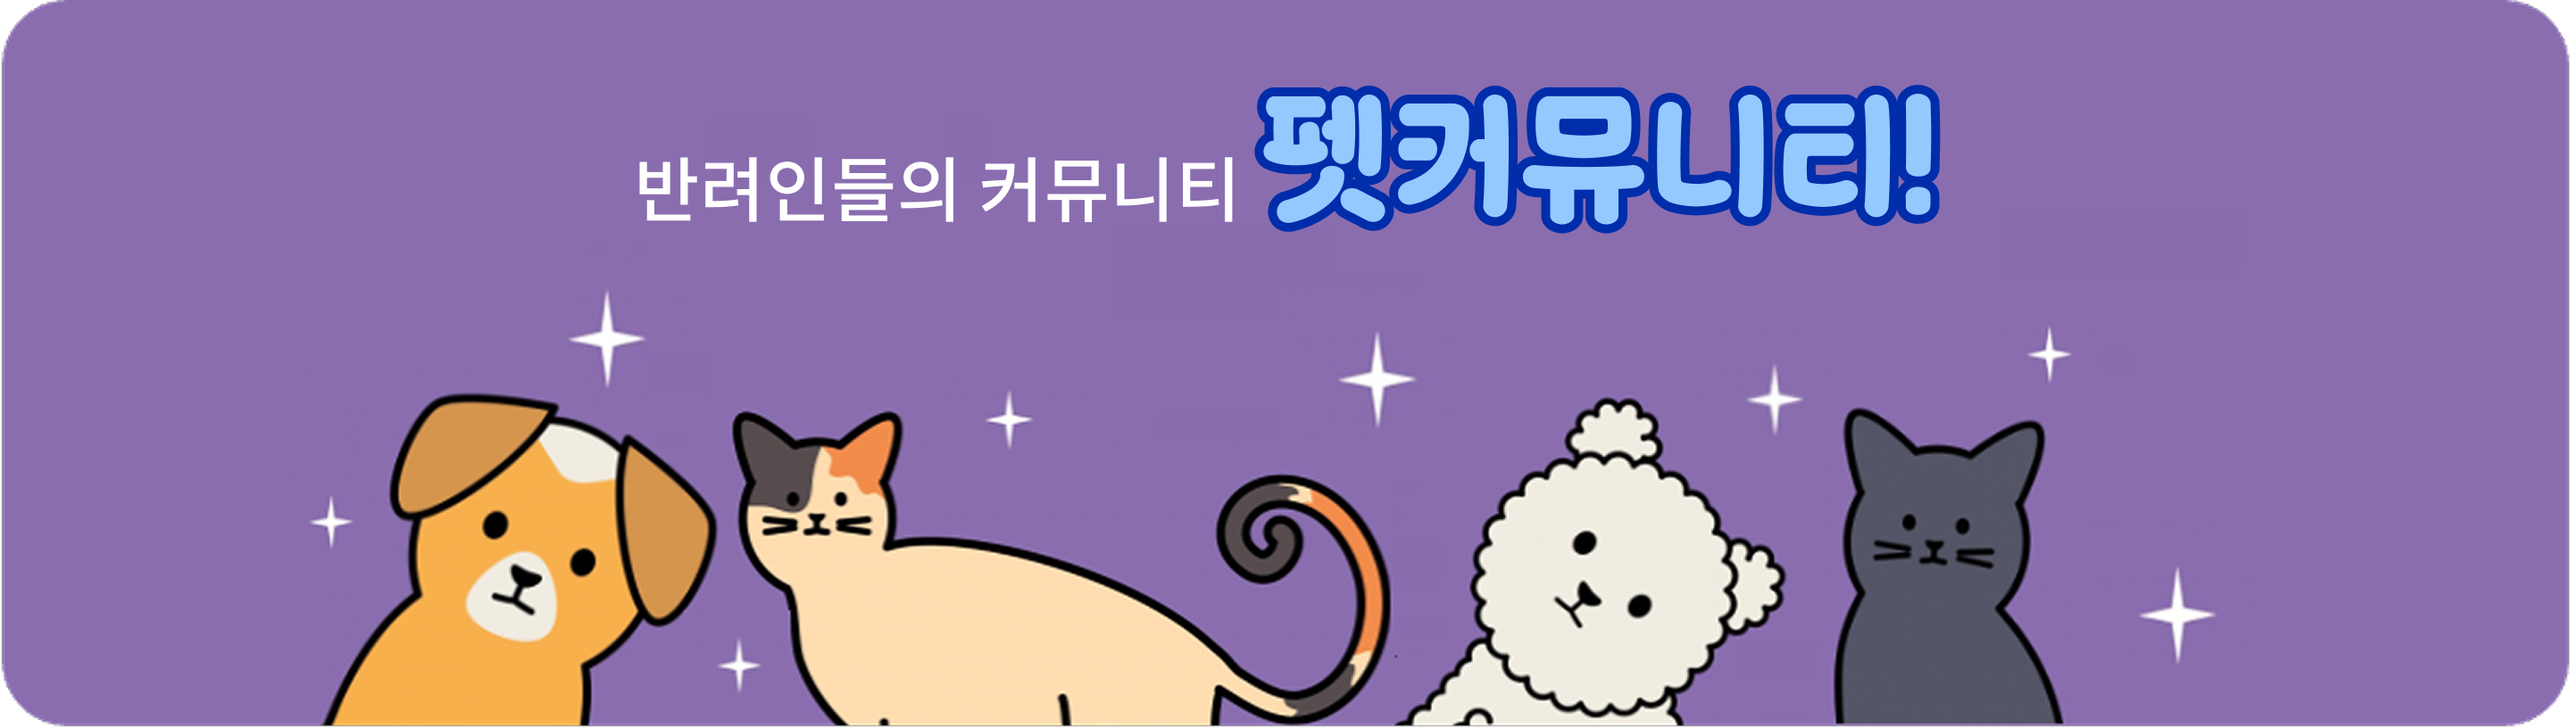
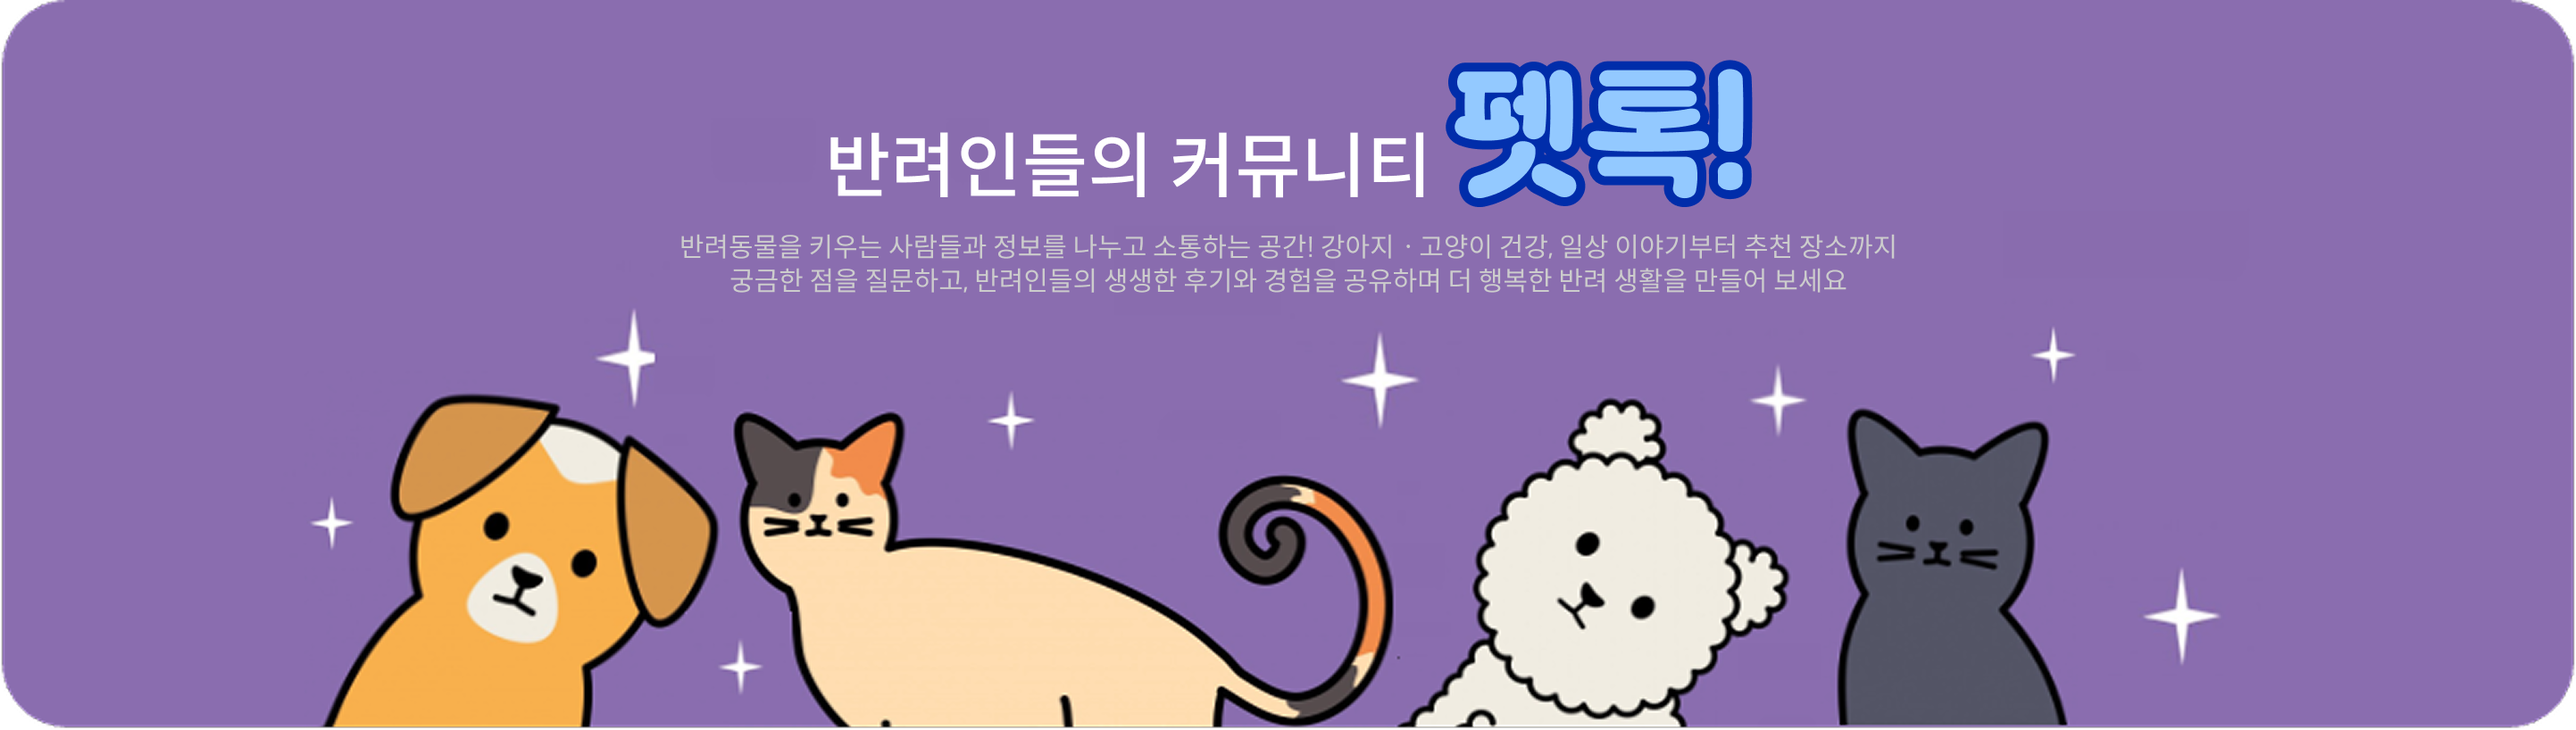
메인 배너 수정

diff --git a/src/components/Header/index.tsx b/src/components/Header/index.tsx
@@ -4,6 +4,7 @@ import style from "./header.module.css";
 import userAuthStore from "@/zustand/userAuth";
 import { useQueryClient } from "@tanstack/react-query";
 import Avartar from "../Avartar";
+<<<<<<< Updated upstream
 import { logout, recieveUserInfo } from "@/apis/profile.api";
 import { getCookie } from "@/hooks/getCookie";
 
@@ -19,6 +20,10 @@ const getUserInfo = async () => {
     console.error("유저 정보 가져오기 실패", error);
   }
 };
+=======
+import { logout  } from "@/apis/profile.api";
+import { getCookie } from "@/utils/getCookie";
+>>>>>>> Stashed changes
 
 const Header = () => {
   const navigate = useNavigate();

diff --git a/src/pages/Home/index.tsx b/src/pages/Home/index.tsx
@@ -56,10 +56,14 @@ const Home = () => {
 
         <div className={styles.postSection}>
           <div
-            className={styles.postText}
-            style={{ backgroundImage: `url(${"/images/pettalkBanner.png"})` }}
+            className={styles.bannerBox}
             onClick={() => navigate("/community")}
-          ></div>
+          >
+            <img
+              className={styles.postText}
+              src={"/images/pettalkBanner.png"}
+            ></img>
+          </div>
           <div className={styles.postsWrapper}>
             <div className={styles.postsContainer}>
               <Suspense fallback={<Loading />}>

diff --git a/src/pages/Home/home.module.css b/src/pages/Home/home.module.css
@@ -65,10 +65,13 @@
   background-size: contain;
   background-position: center;
   background-repeat: no-repeat;
-  aspect-ratio: 16 / 9;
-  max-height: 100px;
-  margin: 10px;
+  width: 95%;
   cursor: pointer;
+}
+
+.bannerBox{
+  width: 100%;
+  margin: 10px;
 }
 
 .title {
